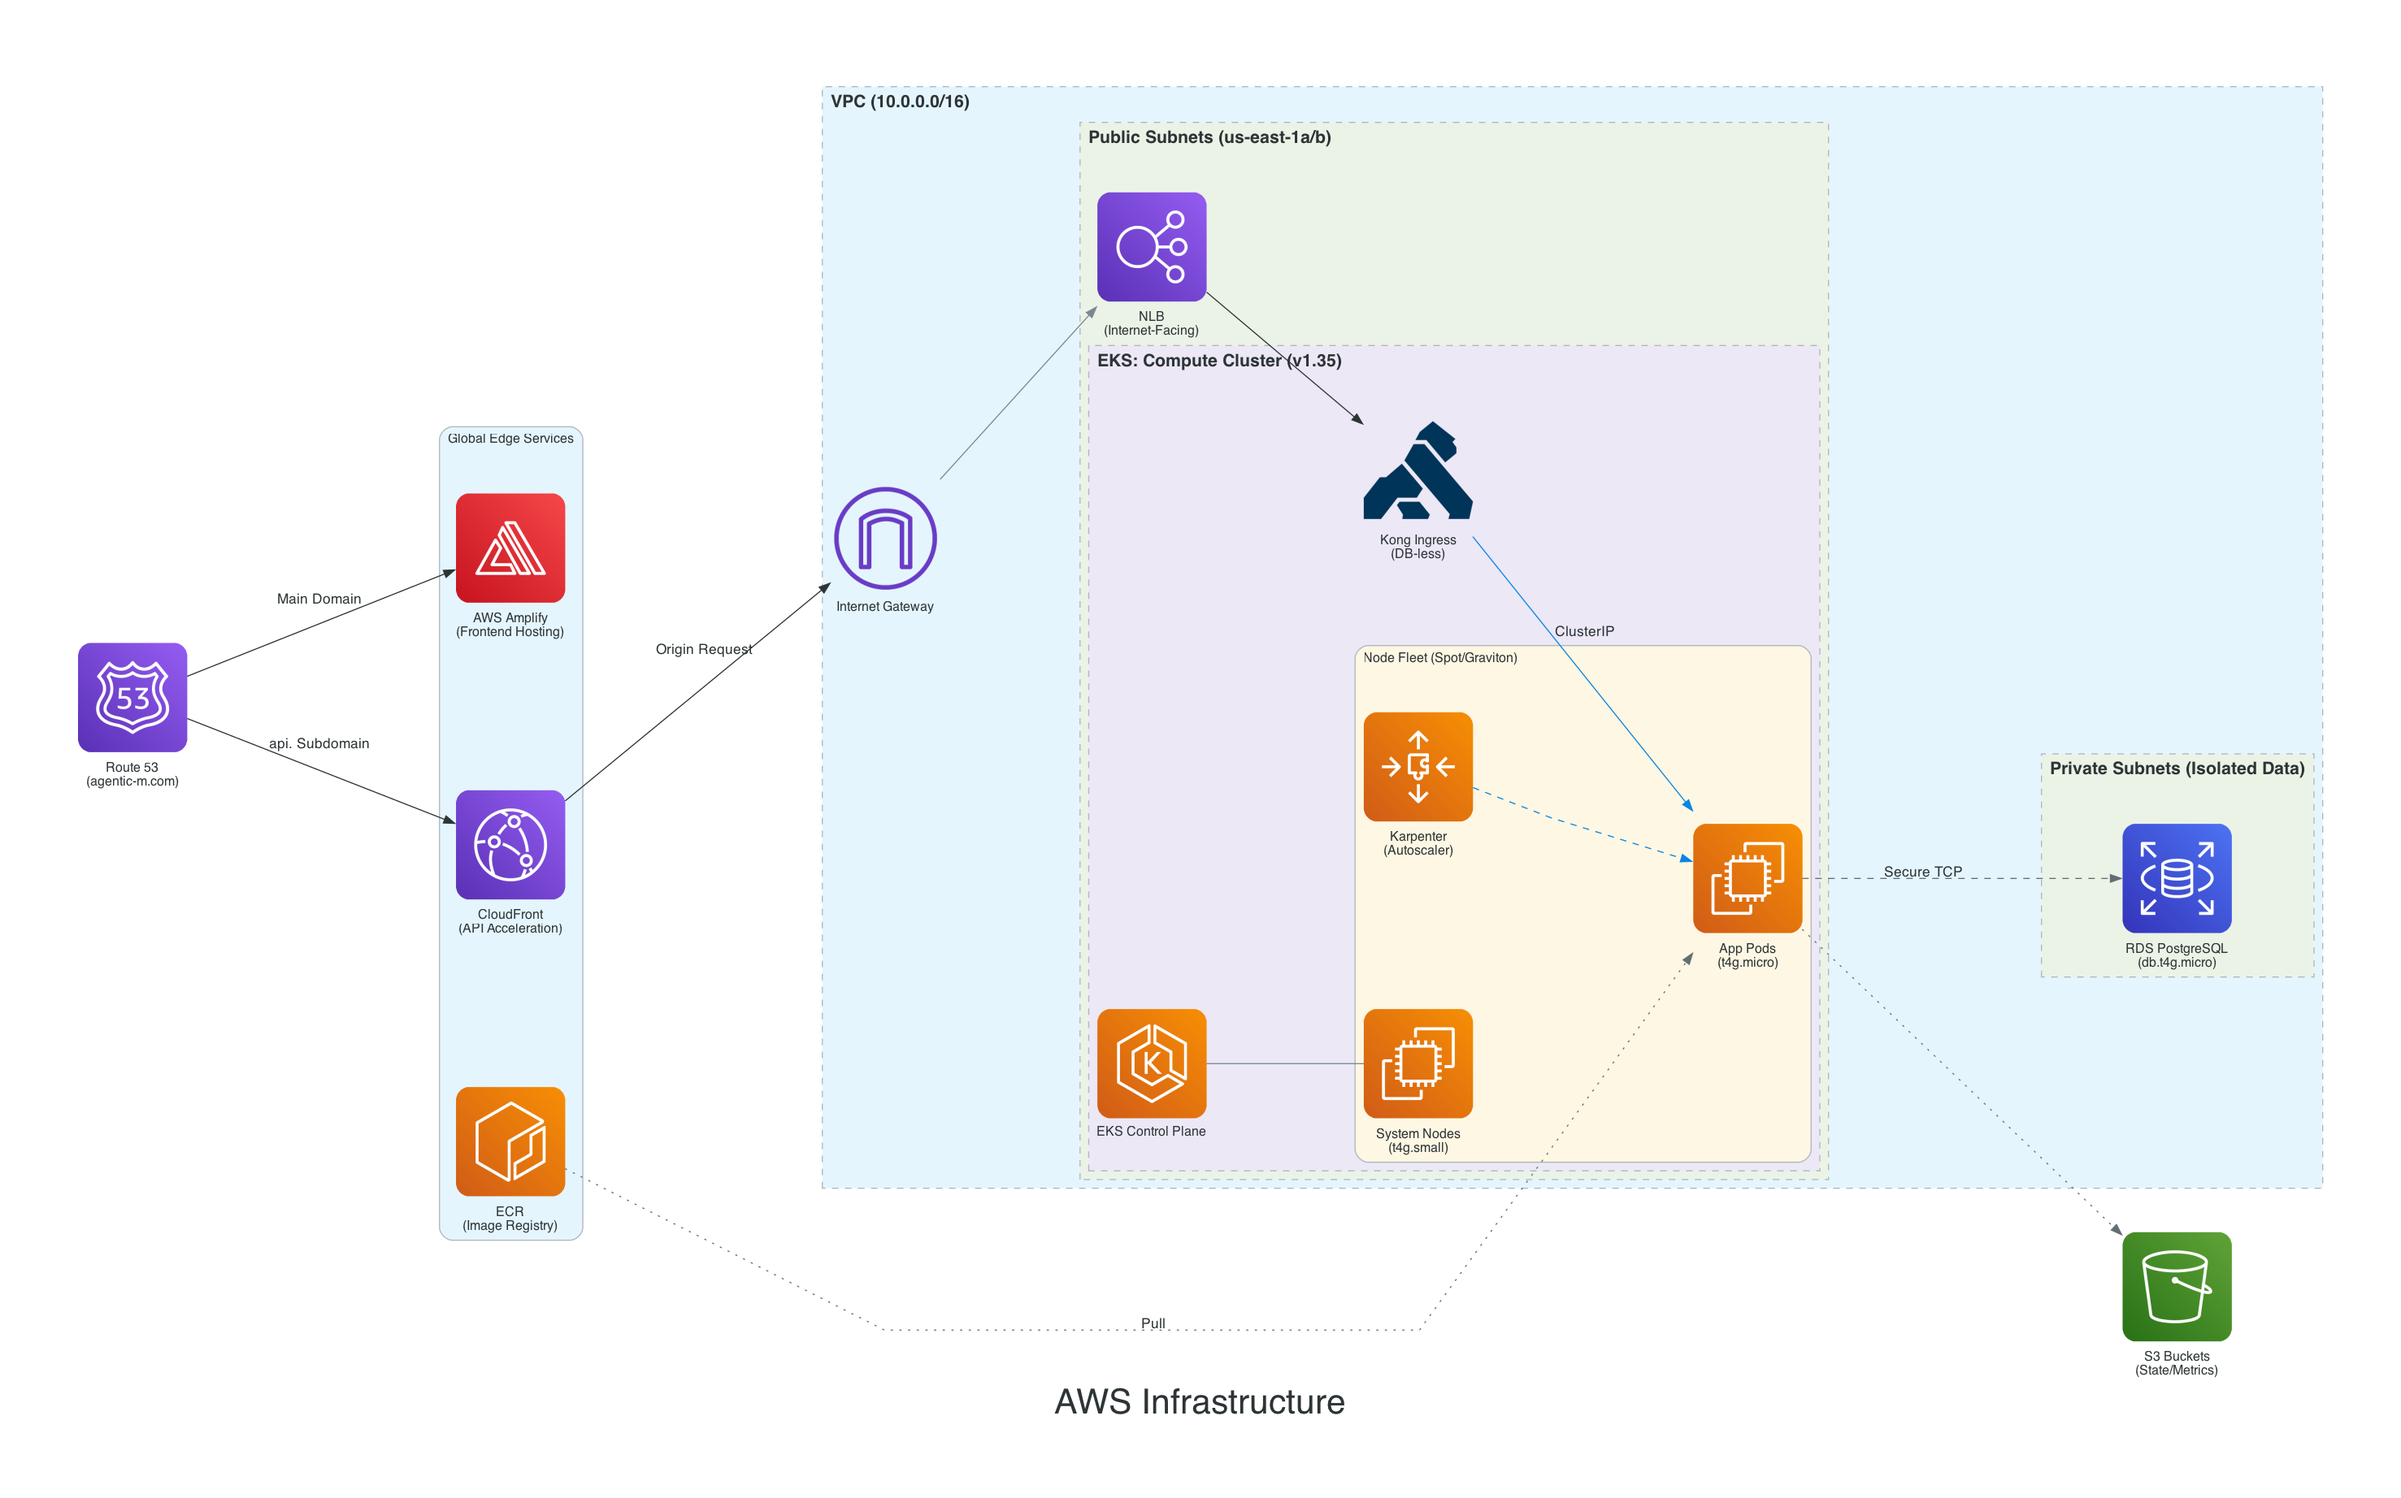
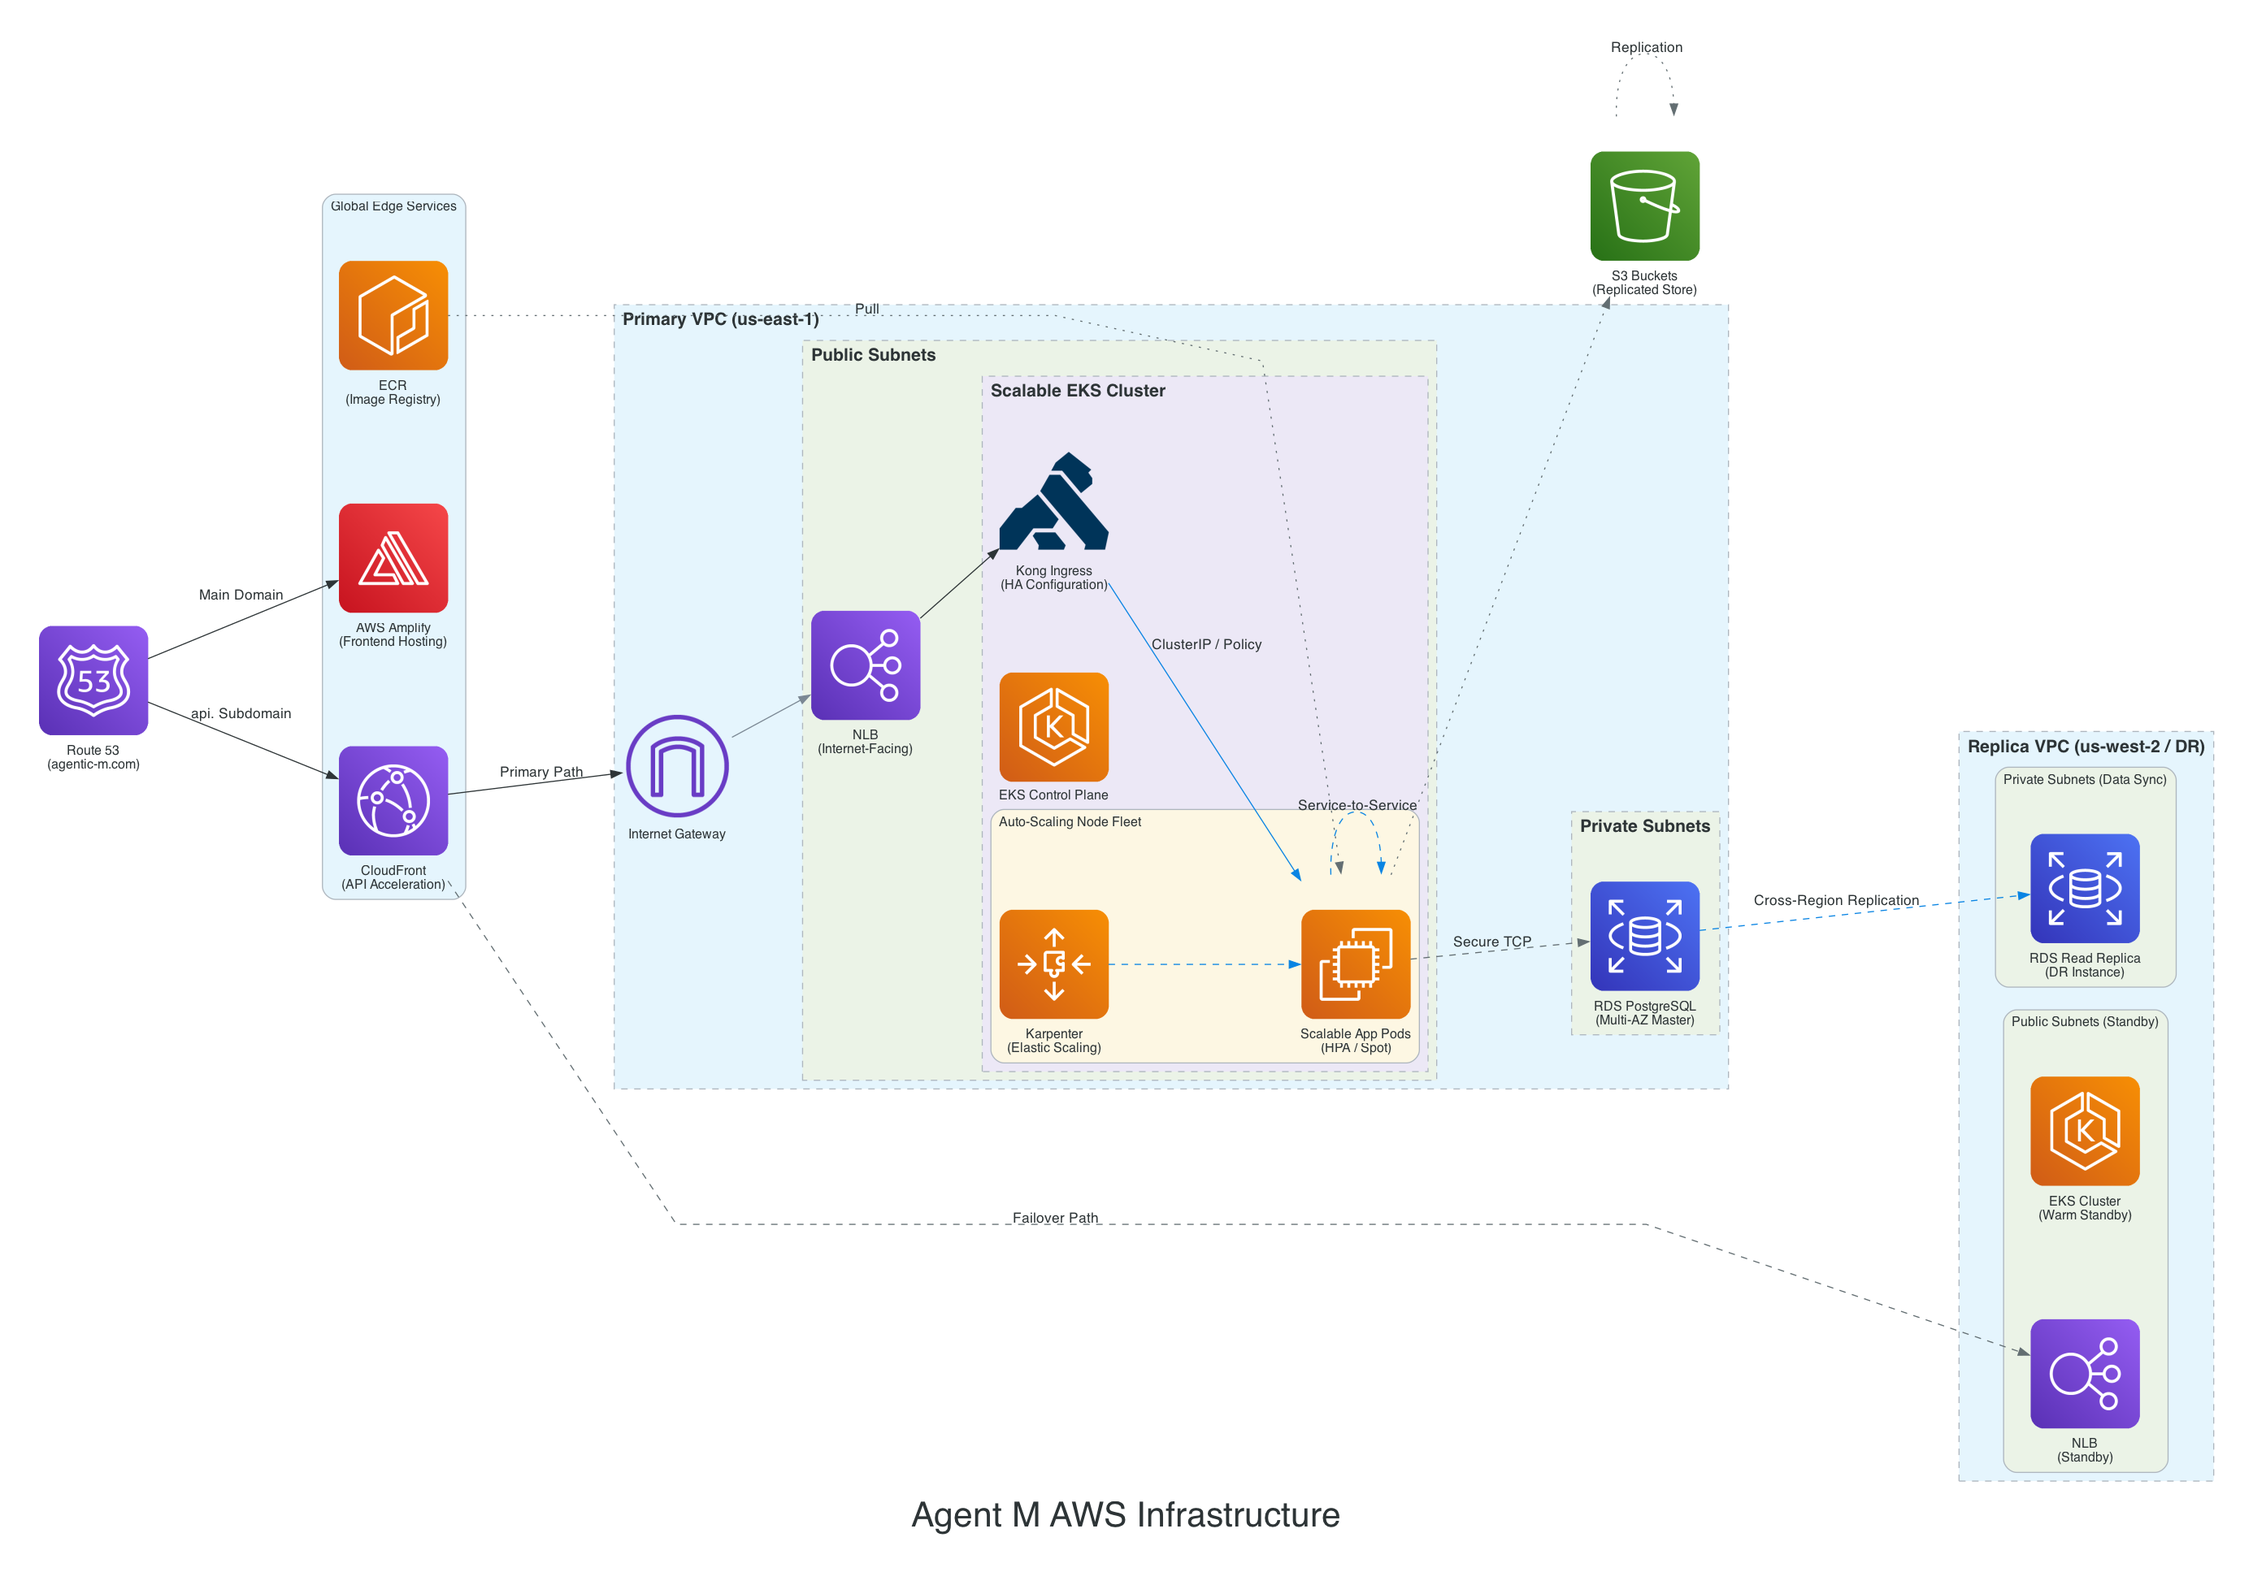
chore: update aws infra

diff --git a/aws_infrastructure.py b/aws_infrastructure.py
@@ -31,9 +31,9 @@ graph_attr = {
     "fontsize": "32",
     "bgcolor": BG_COLOR,
     "splines": "polyline",
-    "pad": "1.0",
-    "nodesep": "1.5",
-    "ranksep": "2.0",
+    "pad": "0.5",
+    "nodesep": "0.8",
+    "ranksep": "1.0",
     "fontname": "Helvetica",
 }
 
@@ -50,7 +50,7 @@ cluster_attr = {
 }
 
 with Diagram(
-    "AWS Infrastructure",
+    "Agent M AWS Infrastructure",
     show=False,
     filename="aws_infrastructure",
     direction="LR",
@@ -65,25 +65,34 @@ with Diagram(
         cloudfront = CloudFront("CloudFront\n(API Acceleration)")
         ecr = EC2ContainerRegistry("ECR\n(Image Registry)")
 
-    with Cluster("VPC (10.0.0.0/16)", graph_attr=cluster_attr):
+    # --- Primary VPC ---
+    with Cluster("Primary VPC (us-east-1)", graph_attr=cluster_attr):
         igw = InternetGateway("Internet Gateway")
 
-        with Cluster("Public Subnets (us-east-1a/b)", graph_attr=cluster_attr):
+        with Cluster("Public Subnets", graph_attr=cluster_attr):
             nlb = ELB("NLB\n(Internet-Facing)")
 
-            with Cluster("EKS: Compute Cluster (v1.35)", graph_attr=cluster_attr):
+            with Cluster("Scalable EKS Cluster", graph_attr=cluster_attr):
                 eks_master = EKS("EKS Control Plane")
-                kong = Kong("Kong Ingress\n(DB-less)")
+                kong = Kong("Kong Ingress\n(HA Configuration)")
 
-                with Cluster("Node Fleet (Spot/Graviton)"):
-                    system_nodes = EC2("System Nodes\n(t4g.small)")
-                    app_nodes = EC2("App Pods\n(t4g.micro)")
-                    karpenter = AutoScaling("Karpenter\n(Autoscaler)")
+                with Cluster("Auto-Scaling Node Fleet"):
+                    app_nodes = EC2("Scalable App Pods\n(HPA / Spot)")
+                    karpenter = AutoScaling("Karpenter\n(Elastic Scaling)")
 
-        with Cluster("Private Subnets (Isolated Data)", graph_attr=cluster_attr):
-            rds = RDS("RDS PostgreSQL\n(db.t4g.micro)")
+        with Cluster("Private Subnets", graph_attr=cluster_attr):
+            rds = RDS("RDS PostgreSQL\n(Multi-AZ Master)")
 
-    s3 = S3("S3 Buckets\n(State/Metrics)")
+    # --- Replica VPC (Simulation) ---
+    with Cluster("Replica VPC (us-west-2 / DR)", graph_attr=cluster_attr):
+        with Cluster("Public Subnets (Standby)"):
+            nlb_dr = ELB("NLB\n(Standby)")
+            eks_dr = EKS("EKS Cluster\n(Warm Standby)")
+
+        with Cluster("Private Subnets (Data Sync)"):
+            rds_dr = RDS("RDS Read Replica\n(DR Instance)")
+
+    s3 = S3("S3 Buckets\n(Replicated Store)")
 
     # --- Precise Route & Logical Connections ---
 
@@ -92,15 +101,34 @@ with Diagram(
 
     # 2. API Route (The specified path)
     dns >> Edge(color=COLOR_PRIMARY, label=" api. Subdomain") >> cloudfront
-    cloudfront >> Edge(color=COLOR_PRIMARY, label=" Origin Request") >> igw >> nlb
+    cloudfront >> Edge(color=COLOR_PRIMARY, label=" Primary Path") >> igw >> nlb
     nlb >> Edge(color=COLOR_PRIMARY) >> kong
-    kong >> Edge(color=COLOR_ACCENT, label=" ClusterIP") >> app_nodes
+    kong >> Edge(color=COLOR_ACCENT, label=" ClusterIP / Policy") >> app_nodes
 
-    # 3. Data & Storage Access (Restricted to Private/Internal)
+    # 3. Internal & Mesh Communication
+    (
+        app_nodes
+        >> Edge(color=COLOR_ACCENT, style="dashed", label=" Service-to-Service")
+        >> app_nodes
+    )
     app_nodes >> Edge(color=COLOR_SECONDARY, style="dashed", label=" Secure TCP") >> rds
     app_nodes >> Edge(color=COLOR_SECONDARY, style="dotted") >> s3
 
-    # 4. Cluster Management
+    # 4. Replication & DR Logical Flow
+    (
+        rds
+        >> Edge(color=COLOR_ACCENT, style="dashed", label=" Cross-Region Replication")
+        >> rds_dr
+    )
+    s3 >> Edge(color=COLOR_SECONDARY, style="dotted", label=" Replication") >> s3
+
+    # 5. Failover Path (Optional Visibility)
+    (
+        cloudfront
+        >> Edge(color=COLOR_SECONDARY, style="dashed", label=" Failover Path")
+        >> nlb_dr
+    )
+
+    # 6. Cluster Management
     karpenter >> Edge(color=COLOR_ACCENT, style="dashed") >> app_nodes
     ecr >> Edge(color=COLOR_SECONDARY, style="dotted", label=" Pull") >> app_nodes
-    eks_master - system_nodes
